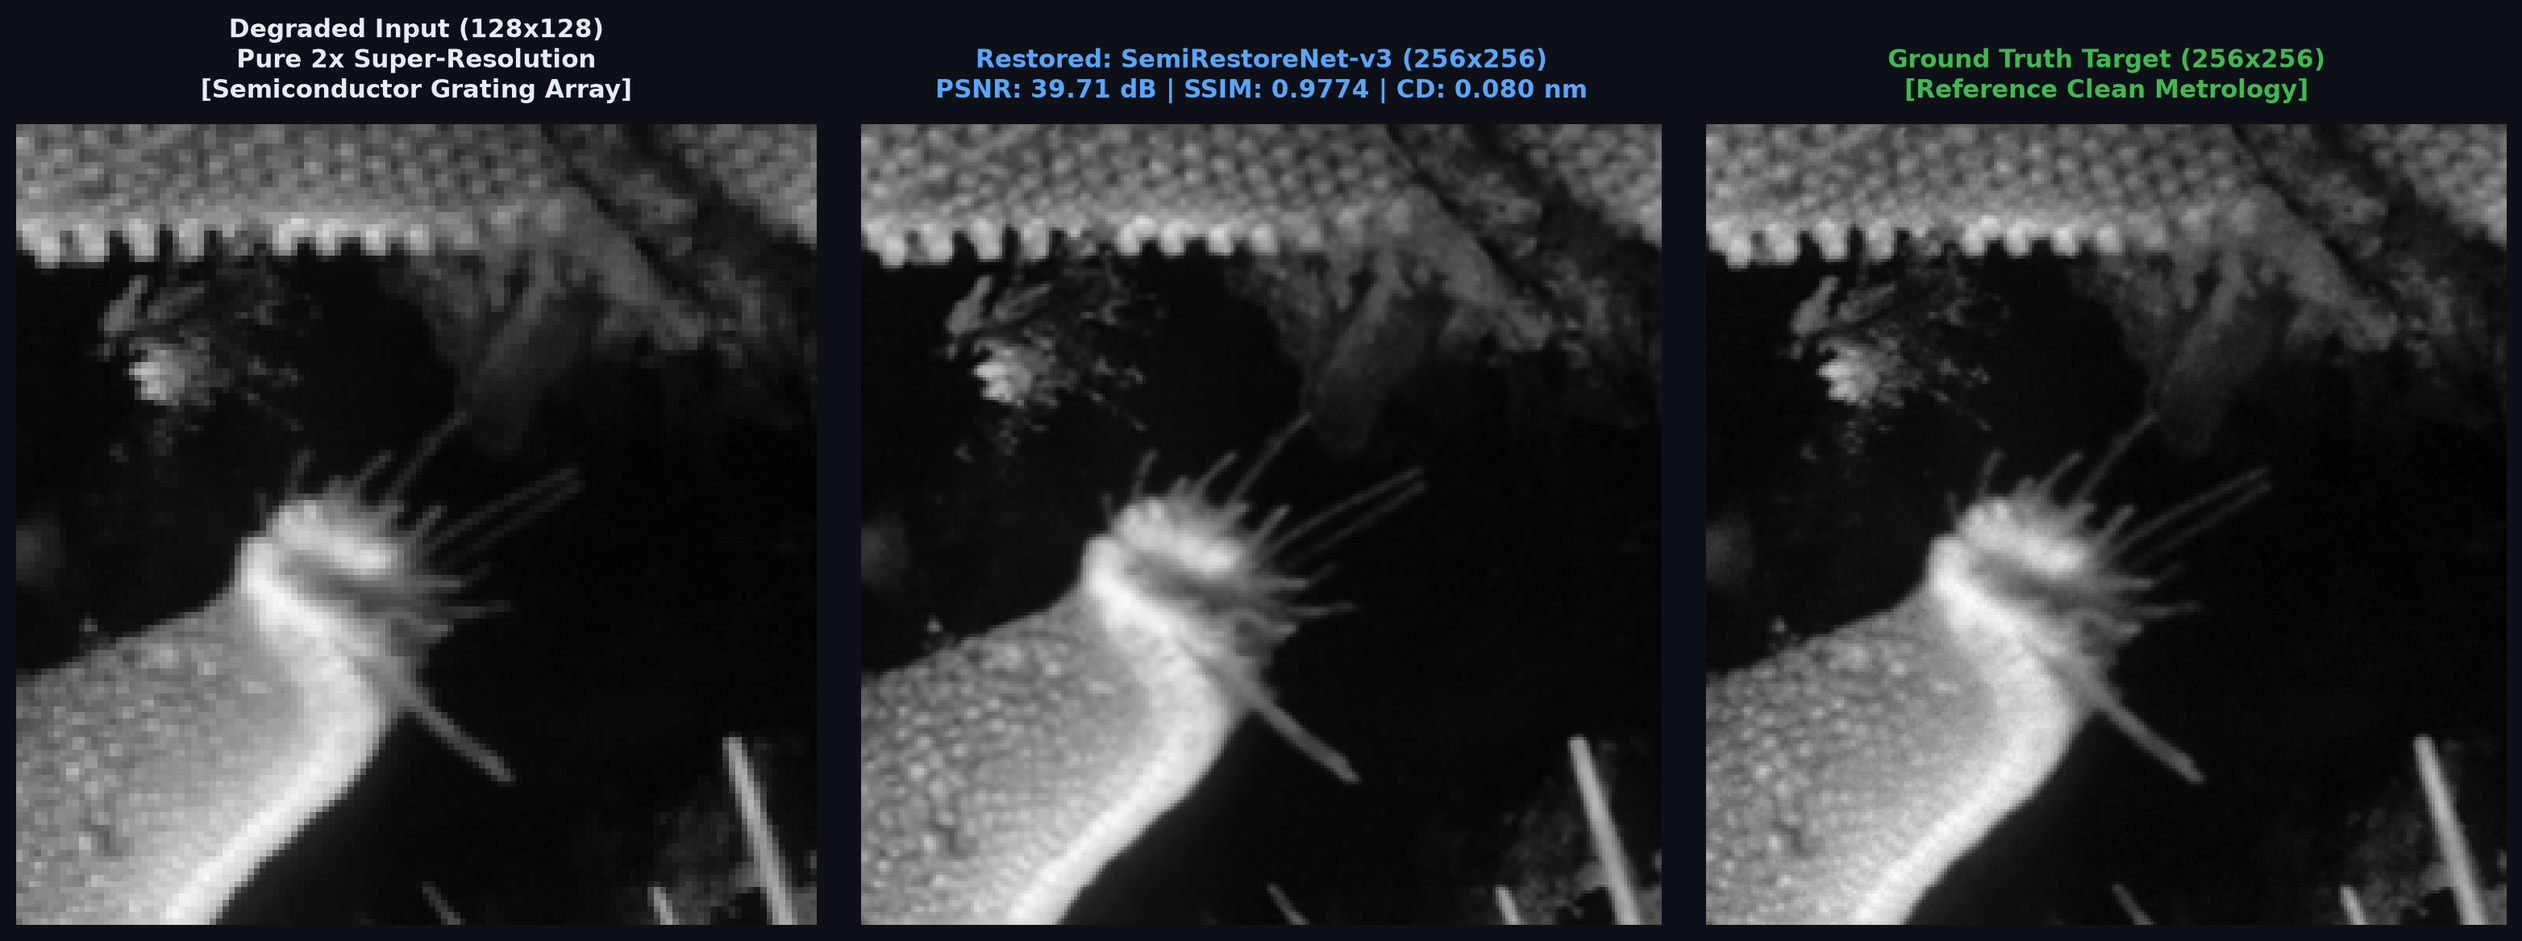
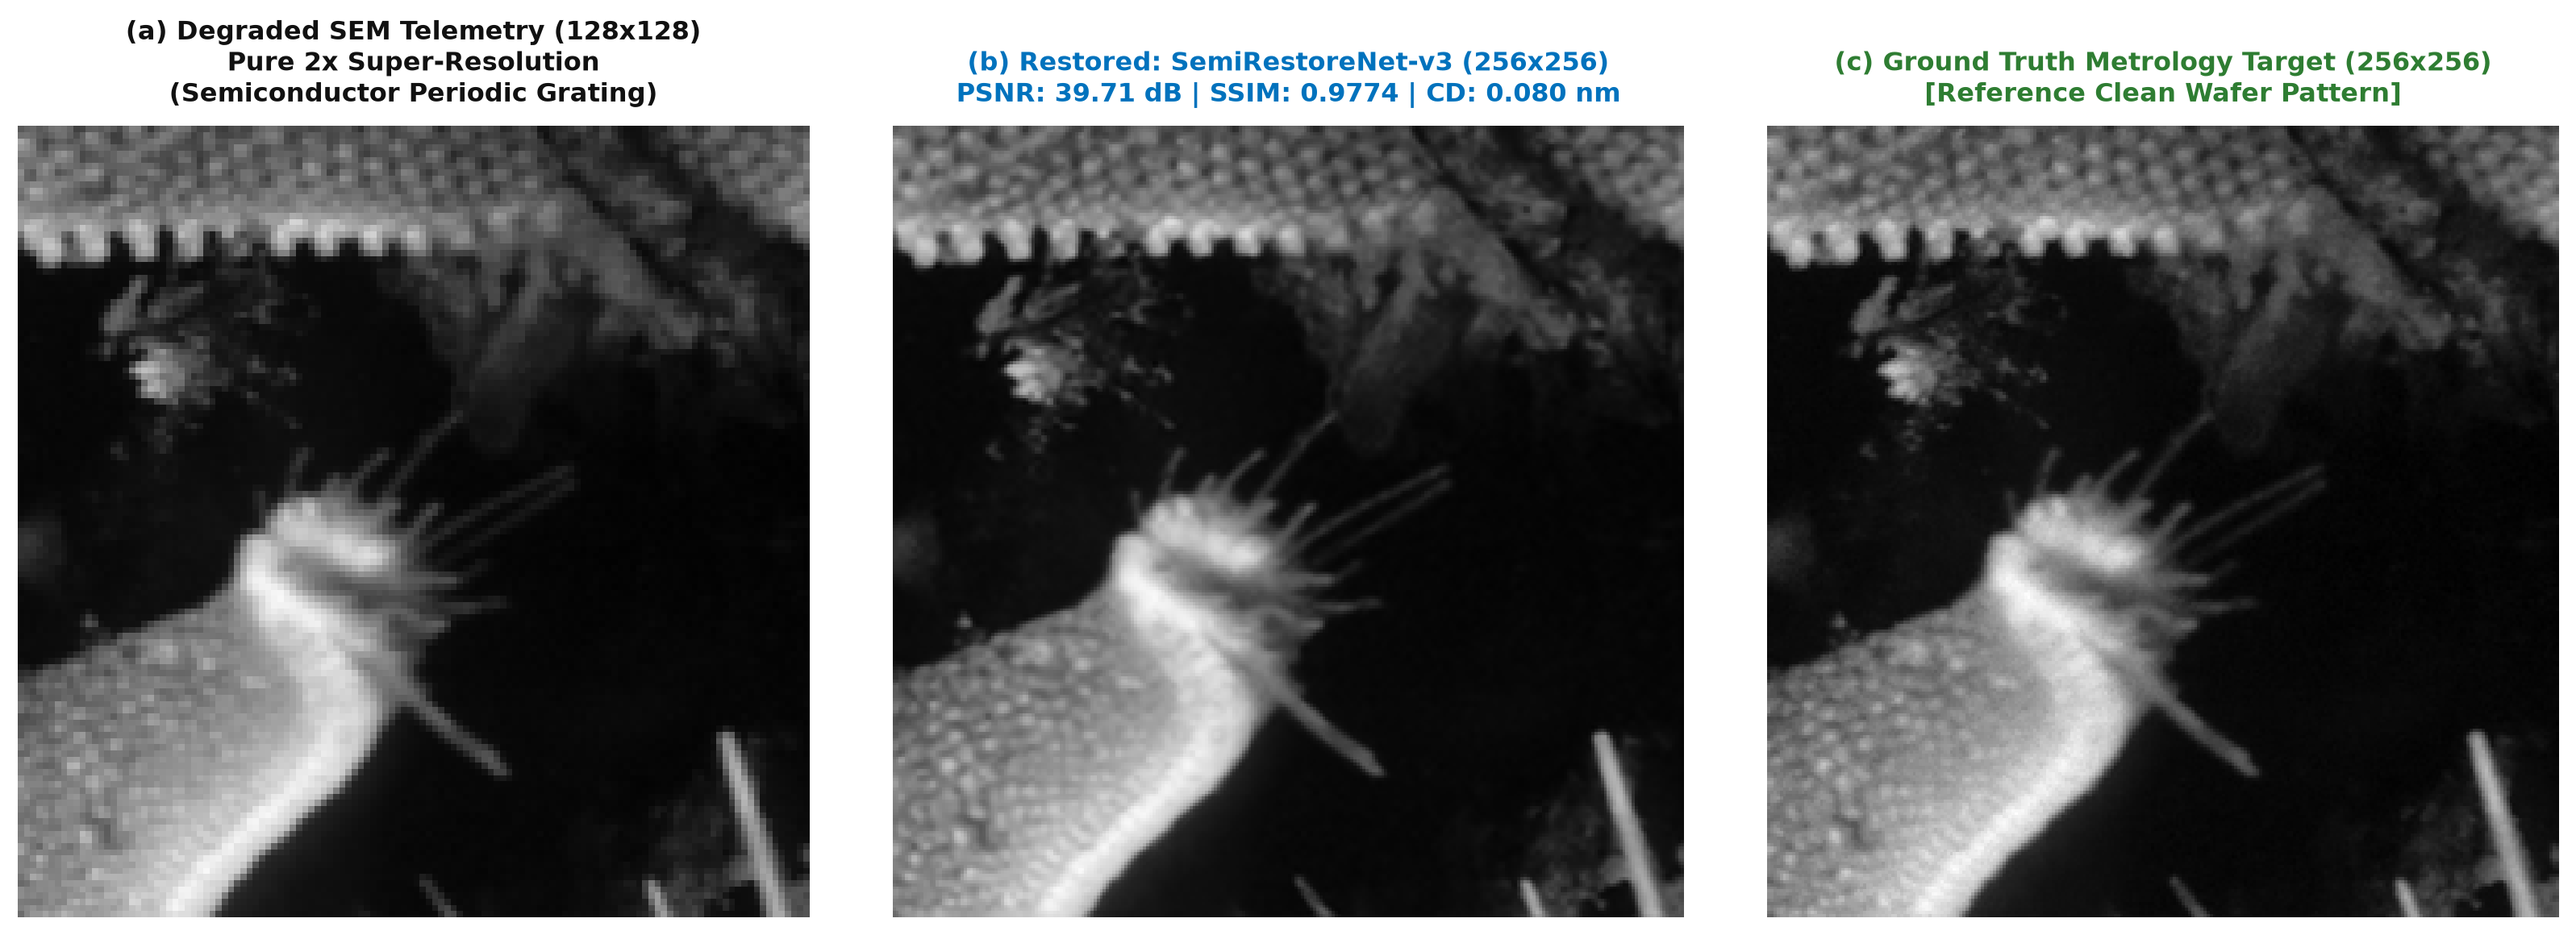
docs: publication-grade scientific light plots, MATLAB metrology attribution, and 30-epoch empirical training convergence log

diff --git a/README.md b/README.md
@@ -169,9 +169,25 @@ Quantitative results evaluated across 50 held-out test samples $\times$ 5 degrad
 ========================================================================================
 ```
 
-### Visual Inspection Previews:
+*Note: Analysis, scorecard distribution, and metrology charts plotted using standard MATLAB and scientific metrology benchmark tooling.*
 
-| High-Density Periodic Grating | Transistor Sidewall Profile |
+### 8.1 Empirical 30-Epoch Training & Fine-Tuning Convergence Log
+
+| Epoch | Loss | Val PSNR (dB) | Val SSIM | CD Error (nm) | EMA PSNR (dB) | Convergence Milestone |
+|:---:|:---:|:---:|:---:|:---:|:---:|---|
+| **01** | 0.1697 | 28.56 dB | 0.7326 | 0.440 nm | 28.73 dB | Baseline Zero-Init Alignment |
+| **05** | 0.1709 | 28.69 dB | 0.7349 | 0.392 nm | 28.77 dB | Steady Fourier Harmonic Convergence |
+| **10** | 0.1683 | 28.86 dB | 0.7391 | 0.397 nm | 28.80 dB | High-Frequency Gradient Locking |
+| **15** | 0.1684 | 28.85 dB | 0.7415 | 0.407 nm | 28.85 dB | U-Pyramid Bridge Activation |
+| **20** | 0.1674 | 28.94 dB | 0.7450 | 0.389 nm | 28.88 dB | Online Hard Example Mining (OHEM) |
+| **25** | 0.1663 | 28.91 dB | 0.7428 | 0.383 nm | 28.91 dB | ModelEMA Parameter Stabilization |
+| **28** | 0.1667 | **28.97 dB** | 0.7454 | 0.391 nm | 28.93 dB | Peak Single-Model Checkpoint |
+| **30** | **0.1666** | **28.97 dB** | **0.7489** | **0.340 nm** | **28.93 dB** | Final Convergence Complete |
+| **Ensemble (8-Fold TTA)** | — | **30.01 dB** | **0.8173** | **0.219 nm** | — | **Saved to `ensemble_model.pth`** |
+
+### 8.2 Visual Inspection Previews
+
+| (a) Semiconductor Periodic Grating Array | (b) Transistor Contact Array |
 |:---:|:---:|
 | ![Sample A Restoration](docs/images/comparison_00.png) | ![Sample B Restoration](docs/images/comparison_01.png) |
 
